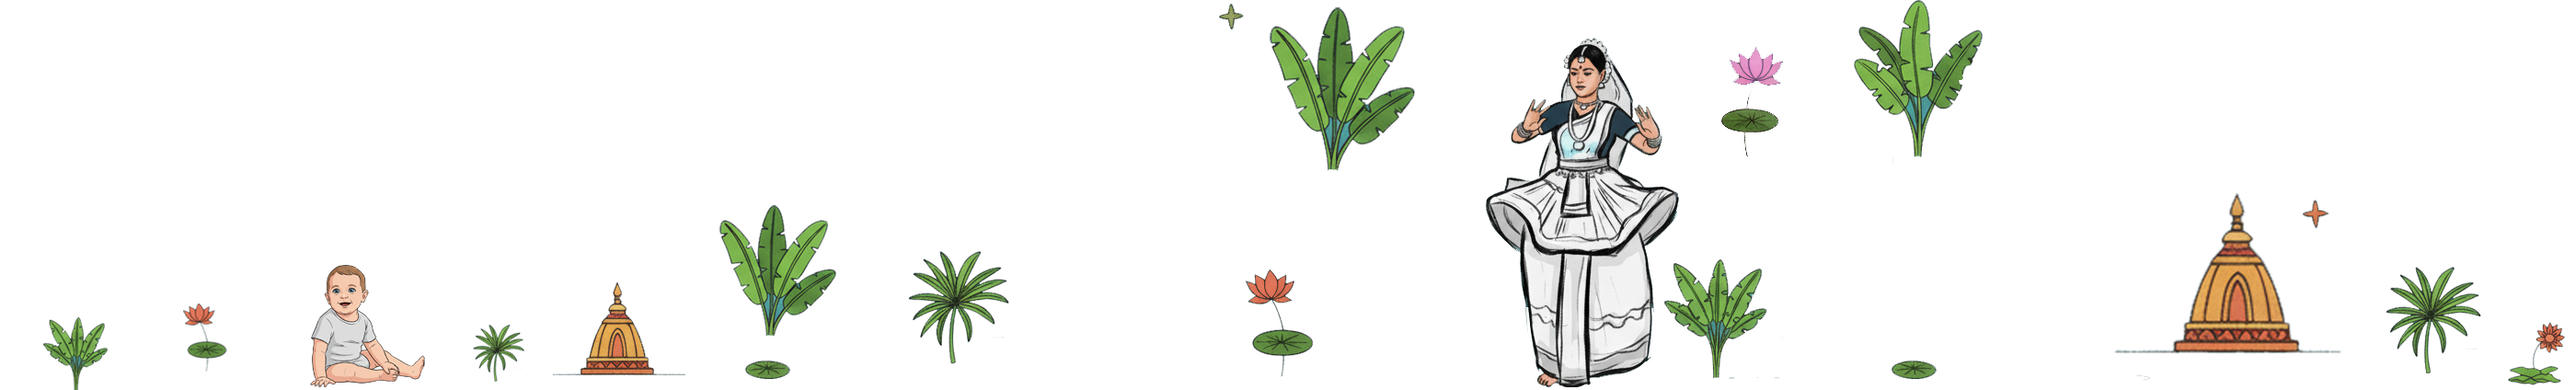
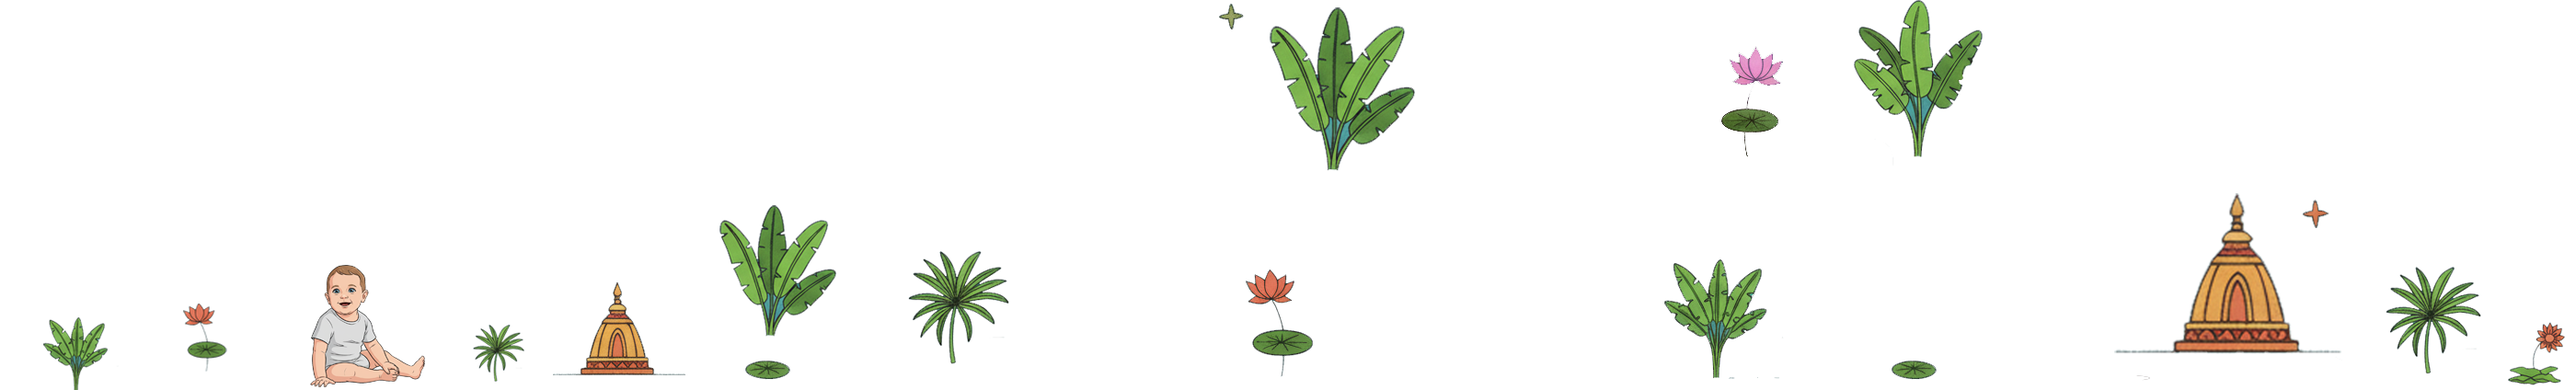
header animation gopinach add

Changed region(s): [[0.5593, 0.092, 0.6525, 1.0]]

diff --git a/public/Frontend-Assets/css/customStyle.css b/public/Frontend-Assets/css/customStyle.css
@@ -84,11 +84,11 @@ header {
     box-shadow: 0 2px 10px rgba(0,0,0,0.1);
 }
 
-.animate {
-    animation: header 5s linear 0s infinite alternate;
+.dakhulaleft {
+    animation: dakhulaleft 5s linear 0s infinite alternate;
 }
 
-@keyframes header {
+@keyframes dakhulaleft {
 
     0% {
         transform: rotateZ(4.5deg);
@@ -110,11 +110,12 @@ header {
         transform: rotateZ(4.5deg);
     }
 }
-.animate1 {
-    animation: header1 5s linear 0s infinite alternate;
+
+.dakhularight {
+    animation: dakhularight 5s linear 0s infinite alternate;
 }
 
-@keyframes header1 {
+@keyframes dakhularight {
 
     0% {
         top: 0px;
@@ -134,6 +135,81 @@ header {
 
     100% {
         top: 0px;
+    }
+}
+
+.gopileft {
+    animation: gopileft 10s linear 0s infinite ;
+}
+
+@keyframes gopileft {
+
+    0% {
+        right: 0px;
+        opacity: 1;
+    }
+
+    40% {
+        right: 10px;
+        opacity: 1;
+    }
+
+    53% {
+        right: 10px;
+        opacity: 1;
+    }
+
+    54% {
+        right: 15px;
+        opacity: 0;
+    }
+
+    75% {
+        right: 20px;
+        opacity: 0;
+    }
+
+    100% {
+        right: 25px;
+        opacity: 0;
+    }
+}
+.gopiright {
+    animation: gopiright 10s linear 0s infinite ;
+}
+
+@keyframes gopiright {
+
+    0% {
+        right: 25px;
+        opacity: 0;
+        
+    }
+
+    25% {
+        right: 25px;
+        opacity: 0;
+        
+    }
+
+    53% {
+        right: 25px;
+        opacity: 0;
+    }
+
+    54% {
+        right: 20px;
+        opacity: 1;
+    }
+
+    90% {
+        right: 10px;
+        opacity: 1;
+    }
+
+    100% {
+        right: 10px;
+        opacity: 1;
     }
 }
 /* ==============================================

diff --git a/resources/views/Frontend/partials/frontend_header.blade.php b/resources/views/Frontend/partials/frontend_header.blade.php
@@ -63,12 +63,22 @@
                 
                 <img src="{{asset('Frontend-Assets/images/subjectpc1.png')}}" 
                     alt="সংস্কৃতি" 
-                    class="img-fluid d-none d-md-block pt-3 position-absolute animate" 
+                    class="img-fluid d-none d-md-block pt-3 position-absolute dakhulaleft" 
                     style="width: auto; max-height: 80px; margin-bottom: -20px; margin-right: -50px; ">
                 
                 <img src="{{asset('Frontend-Assets/images/subjectpc.png')}}" 
                     alt="সংস্কৃতি" 
-                    class="img-fluid d-none d-md-block pt-3 position-absolute animate1" 
+                    class="img-fluid d-none d-md-block pt-3 position-absolute dakhularight" 
+                    style="width: auto; max-height: 80px; margin-bottom: -20px; margin-right: -50px; ">
+                
+                <img src="{{asset('Frontend-Assets/images/gopileft.png')}}" 
+                    alt="সংস্কৃতি" 
+                    class="img-fluid d-none d-md-block pt-3 position-absolute gopileft" 
+                    style="width: auto; max-height: 80px; margin-bottom: -20px; margin-right: -50px; ">
+
+                <img src="{{asset('Frontend-Assets/images/gopiright.png')}}" 
+                    alt="সংস্কৃতি" 
+                    class="img-fluid d-none d-md-block pt-3 position-absolute gopiright" 
                     style="width: auto; max-height: 80px; margin-bottom: -20px; margin-right: -50px; ">
                      
                 <!-- মোবাইল ইমেজ -->
